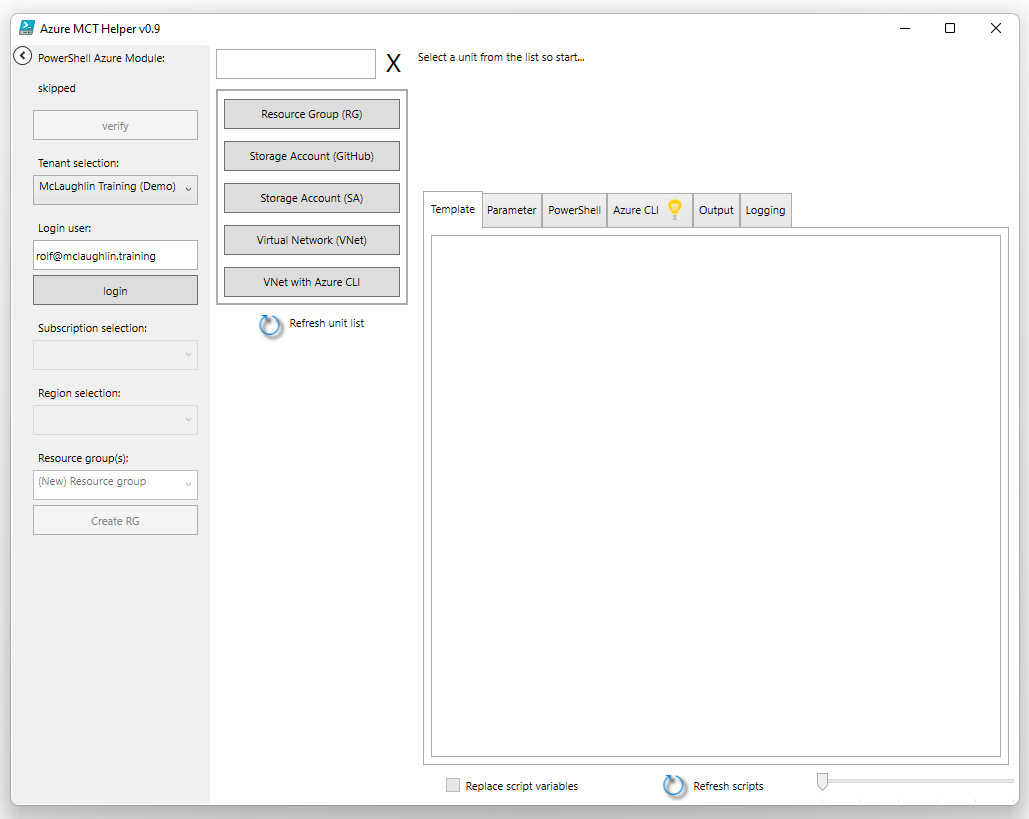
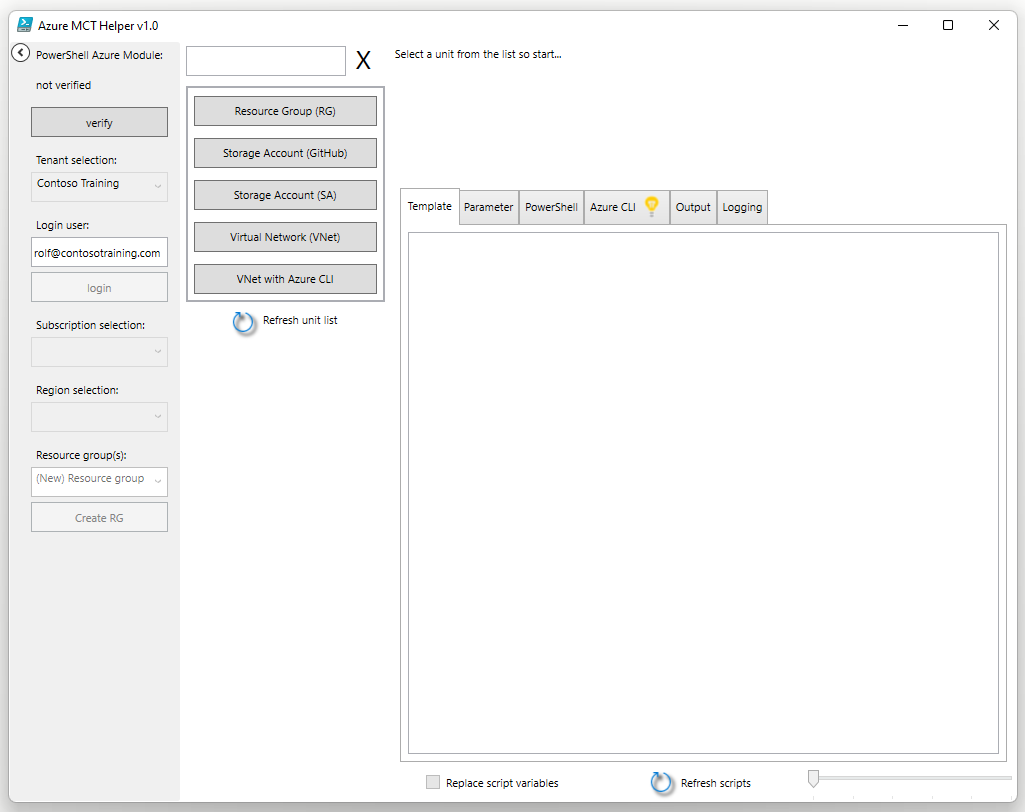
Finalized documentation and updated screenshots

diff --git a/README.md b/README.md
@@ -11,7 +11,9 @@ The script is provided as is and no support or warranties are given.
 
 ## Installation of the Azure MCT Helper
 
-Place the script and its subfolders in any folder on your system. Make sure that the execution of PowerShell scripts is allowed for the account you are using. There are no administrative rights needed to run the script, although the installation of the Azure PowerShell module is required. The script will not work as intended without it. Optionally the installation of the Azure CLI module is required in case the unit contains shell files.
+Place the script and its subfolders in any folder on your system. Make sure that the execution of PowerShell scripts is allowed for the account you are using. There are no administrative rights needed to run the script, although the installation of the Azure Az PowerShell module is required. The script will not work as intended without it. Optionally the installation of the Azure CLI module is required in case the unit contains shell files. Installation instructions for the Azure CLI can be found at the end of this document.
+
+To install the Azure Az PowerShell module follow the instructions provided by Microsoft here: [https://docs.microsoft.com/powershell/azure/install-az-ps?view=azps-7.2.0](https://docs.microsoft.com/powershell/azure/install-az-ps?view=azps-7.2.0)
 
 ### Initial configuration
 
@@ -30,7 +32,7 @@ The settings.json file has four sections as well as the version section.
 {
     "version": "1",
     "defaults": {
-        "formCaption": "Azure MCT Helper v0.9",
+        "formCaption": "Azure MCT Helper v1.0",
         "workdir": "Units",
         "SkipAzModuleStatus": false,
         "DefaultTenant": "Contoso Training",
@@ -52,8 +54,8 @@ The settings.json file has four sections as well as the version section.
         }
     ],
     "accounts": [
-        "rolf@contosodemo.com",
-        "rolf@contoso.com"
+        "rolf@contoso.com",
+        "rolf@contosotraining.com"
     ],
     "editors": [
         "code",
@@ -69,7 +71,7 @@ In the defaults section, you can pre-configure values to become values of variab
 These are the variables you need to replace with your own values:
 
 ```powershell
-        $script:formCaption = 'Azure MCT Helper v0.9'
+        $script:formCaption = 'Azure MCT Helper v1.0'
         $script:workdir = "Units"
         $script:SkipAzModuleStatus = $false
         $script:DefaultTenant = ""
@@ -77,7 +79,7 @@ These are the variables you need to replace with your own values:
         $script:DefaultRegion = "northeurope"
         $script:DefaultRegionLong = "North Europe"
         $script:DefaultResourceGroup = "AzClass"
-        $script:DefaultAccount = "0"
+        $script:DefaultAccount = "1"
         $script:DefaultEditor = "0"
 ```
 
@@ -126,19 +128,19 @@ Each button representing a unit takes its name from the unit folder. A search bo
 
 ### Script area
 
-The main component of the script are are the tabs showing the content of the script files which are loaded upon selection of one of the unit buttons. Each file is optional and are in the responsibility of the author of the unit files. Each file has a defined purpose.
+The main component of the script area are the tabs showing the content of the script files, which are loaded upon selection of one of the unit buttons. Each file is optional and all files are in the responsibility of the author of the unit files. Each file has a defined purpose.
 
 ***info.txt***
-It can be used to describe the unit and give some background information about what is going to be deployed to Azure. It is an optional file and when it is in the unit folder its content will be displayed on the top of the script area.
+It can be used to describe the unit and give some background information about what is going to be deployed to Azure. It is an optional file and when it is found in the unit folder its content will be displayed on the top of the script area.
 
 ***azuredeploy.json***
-As within Azure itself `azuredeploy.json` files can be used as templates to deploy Azure resources. Under the hood the PowerShell cmdlet `New-AzResourceGroupDeployment` is used together with the provided template file to achieve the same result through this tool.
+As within Azure itself `azuredeploy.json` files can be used as templates to deploy Azure resources. Under the hood the PowerShell cmdlet `New-AzResourceGroupDeployment` is used together with the provided template file and the `azuredeploy.parameters.json` to achieve the same result through this tool.
 
 ***azuredeploy.parameters.json***
 Together with the above mentioned file `azuredeploy.json` the resources get the parameter values passed on to customize the deployment to your needs. Together the two files are used by `New-AzResourceGroupDeployment` to create the resources in Azure.
 
 ***azuredeploy.json.github.txt***
-If the unit, that should be deployed, already exists on GitHub, the azuredeploy.json.github.txt file provide a way to just point to the URL of the file. So a unit leveraging the Azure storage account quickstart template on GitHub would contain a file in its unit folder named `azuredeploy.json.github.txt` with just one line of text in it pointing to this link: [https://github.com/Azure/azure-quickstart-templates/blob/master/quickstarts/microsoft.storage/storage-account-create/azuredeploy.json](https://github.com/Azure/azure-quickstart-templates/blob/master/quickstarts/microsoft.storage/storage-account-create/azuredeploy.json).
+If the unit, that should be deployed, already exists on GitHub, the azuredeploy.json.github.txt file provides a way to just point to the URL of the file. So a unit leveraging the Azure storage account quickstart template on GitHub would contain a file in its unit folder named `azuredeploy.json.github.txt` with just one line of text in it pointing to this link: [https://github.com/Azure/azure-quickstart-templates/blob/master/quickstarts/microsoft.storage/storage-account-create/azuredeploy.json](https://github.com/Azure/azure-quickstart-templates/blob/master/quickstarts/microsoft.storage/storage-account-create/azuredeploy.json).
 
 ***azuredeploy.parameters.json.github.txt***
 Following the same principle the file `azuredeploy.parameters.json.github.txt` can be placed into the unit folder and only contain one line of text representing the URL to the parameters file of the same GitHub example. In the above mentioned case this would be: [https://github.com/Azure/azure-quickstart-templates/blob/master/quickstarts/microsoft.storage/storage-account-create/azuredeploy.parameters.json](https://github.com/Azure/azure-quickstart-templates/blob/master/quickstarts/microsoft.storage/storage-account-create/azuredeploy.parameters.json).
@@ -153,7 +155,7 @@ Once the module is installed and a login in the context area has been successful
 
 ***azurescript.sh***
 Another option to deploy resources to Azure is through native Bash scripts. They require the Azure CLI to be installed.
-One the CLI is installed the script will identify the installation and allow the login to Azure CLI as well as the execution of shell scripts.
+Once the CLI is installed the script will identify the installation and allow the login to Azure CLI as well as the execution of shell scripts.
 There is no need to install the Linux subsystem to run the shell scripts to deploy Azure resources.
 
 #### Azure CLI Installation and login
@@ -162,4 +164,10 @@ If the Azure CLI is not already installed on your system you download and instal
 
 The script will identify the installed software and show a yellow bulb on the Azure CLI tab in the script section. If the Azure CLI is not installed the bulb will be red.
 
-Select the yellow bulb to open the Azure CLI login page.
+Select the yellow bulb on the Azure CLI tab to open the Azure CLI login page.
+
+![Image of Azure CLI login window](/media/docu_CLILogin.png)
+
+There are three options to login with Azure CLI. User account & password, security principal, and managed instance. Provide the needed login information to login with the expanded login type. A successful login will be indicated by a green bulb beside the login type and on the main Azure CLI tab.
+
+To log out of Azure CLI select the green bulb.
